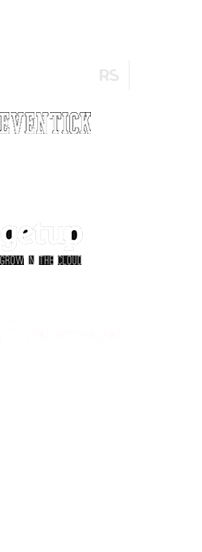
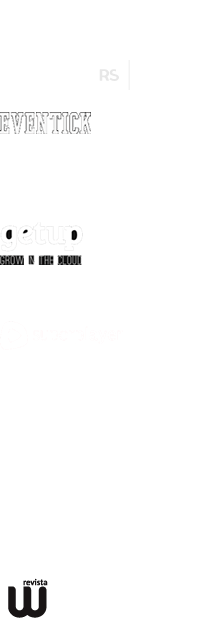
new sponsor

diff --git a/css/main.css b/css/main.css
@@ -524,6 +524,7 @@ main .where { float:left; width:432px; font-size:28px; font-weight:bold; letter-
 #sponsors .sponsors-wrapper .supporters a.qi { margin-top:12px; width:93px; height:67px; background-position:0 -650px; }
 #sponsors .sponsors-wrapper .supporters a.nyvra { margin:33px 0 10px; width:244px; height:35px; background-position:0 -737px; }
 #sponsors .sponsors-wrapper .supporters a.computech { margin-top:21px; width:182px; height:45px; background-position:0 -792px; }
+#sponsors .sponsors-wrapper .supporters a.revista-W { margin-top:9px; width:72px; height:72px; background-position:0 -857px; }
 
 /* FOLLOW US */
 #follow-us { position:relative; clear:both; padding-top:20px; width:100%; background-color:#171314; } 
@@ -842,6 +843,7 @@ main .where { float:left; width:432px; font-size:28px; font-weight:bold; letter-
     #sponsors .sponsors-wrapper .supporters a.qi { margin-top:11px; width:72px; height:52px; background-position:0 -421px; }
     #sponsors .sponsors-wrapper .supporters a.nyvra { margin-right:30px; width:162px; height:24px; background-position:0 -483px; }
     #sponsors .sponsors-wrapper .supporters a.computech { margin:0; width:142px; height:35px; background-position:0 -517px; }
+    #sponsors .sponsors-wrapper .supporters a.revista-W { margin:0; width:57px; height:58px; background-position:0 -572px; }
     #sponsors .sponsors-wrapper .squares .sponsor-list .sponsor.adobe .sponsors-general { margin-top:37px; width:115px; height:27px; background-position:0 -292px; }
     #sponsors .sponsors-wrapper .be-a-sponsor { padding-bottom:40px; font-size:15px; }
     

diff --git a/index.html b/index.html
@@ -1195,7 +1195,8 @@
                                 <li><a href="//publisoft.com.br/" rel="external" title="Acesse o site da Publisoft" class="publisoft ir">Publisoft</a></li>
                                 <li class="last"><a href="//www.nyvra.net" rel="external" title="Nyvra Software - Produtos, Consultoria e Desenvolvimento para Plataformas M&oacute;veis - iOS e Android" class="ir nyvra">Nyvra</a></li>
                                 <li><a href="//qi.edu.br" rel="external" title="QI - Escolas e Faculdades" class="qi ir">QI</a></li>
-                                <li><a href="//www.computech.com.br" rel="external" title="Computech - Tecnologia ao seu alcance" class="computech ir">Computech</a></li>                                
+                                <li><a href="//www.computech.com.br" rel="external" title="Computech - Tecnologia ao seu alcance" class="computech ir">Computech</a></li>
+                                <li><a href="//revistaw.com.br/" rel="external" title="Acesse o site da revista W" class="revista-W ir">Revista W</a></li>                                
                             </ul>
                         </div>                                                
                     </div>          				    

diff --git a/en/index.html b/en/index.html
@@ -1190,6 +1190,7 @@
                                 <li class="last"><a href="//www.nyvra.net" rel="external" title="Nyvra Software - Produtos, Consultoria e Desenvolvimento para Plataformas M&oacute;veis - iOS e Android" class="ir nyvra">Nyvra</a></li>
                                 <li><a href="//qi.edu.br" rel="external" title="QI - Escolas e Faculdades" class="qi ir">QI</a></li>
                                 <li><a href="//www.computech.com.br" rel="external" title="Computech - Tecnologia ao seu alcance" class="computech ir">Computech</a></li>
+                                <li><a href="//revistaw.com.br/" rel="external" title="revista W" class="revista-W ir">Revista W</a></li>
                             </ul>
                         </div>                                               
                     </div>          				    
